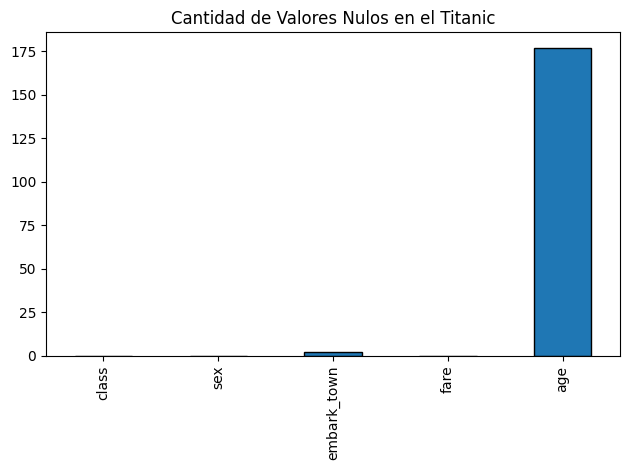
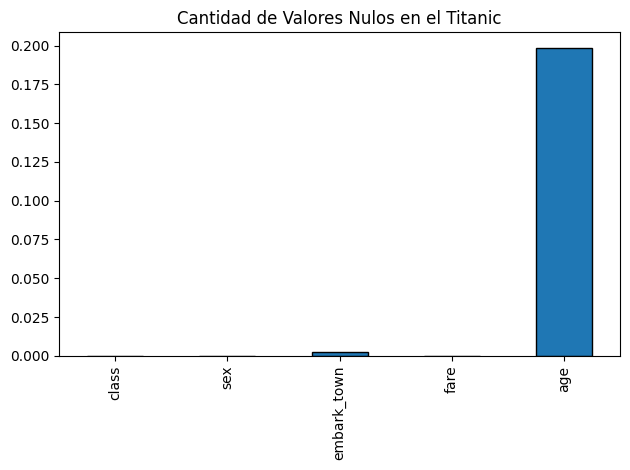
Built site for gh-pages

diff --git a/tics411/notebooks/11-ex-knn.html b/tics411/notebooks/11-ex-knn.html
@@ -204,7 +204,7 @@ pre > code.sourceCode > span > a:first-child::before { text-decoration: underlin
 <section id="valores-faltantes-nulos" class="level4">
 <h4 class="anchored" data-anchor-id="valores-faltantes-nulos">Valores Faltantes (Nulos)</h4>
 <div id="cell-8" class="cell">
-<div class="sourceCode cell-code" id="cb5"><pre class="sourceCode python code-with-copy"><code class="sourceCode python"><span id="cb5-1"><a href="#cb5-1" aria-hidden="true" tabindex="-1"></a>X.isnull().<span class="bu">sum</span>().plot(</span>
+<div class="sourceCode cell-code" id="cb5"><pre class="sourceCode python code-with-copy"><code class="sourceCode python"><span id="cb5-1"><a href="#cb5-1" aria-hidden="true" tabindex="-1"></a>X.isnull().mean().plot(</span>
 <span id="cb5-2"><a href="#cb5-2" aria-hidden="true" tabindex="-1"></a>    kind<span class="op">=</span><span class="st">"bar"</span>,</span>
 <span id="cb5-3"><a href="#cb5-3" aria-hidden="true" tabindex="-1"></a>    edgecolor<span class="op">=</span><span class="st">"k"</span>,</span>
 <span id="cb5-4"><a href="#cb5-4" aria-hidden="true" tabindex="-1"></a>    title<span class="op">=</span><span class="st">"Cantidad de Valores Nulos en el Titanic"</span>,</span>

diff --git a/tics411/clase-3.html b/tics411/clase-3.html
@@ -1502,7 +1502,7 @@ Es una heurísitca en la cual gráfica el valor de una métrica de distancia (e.
       }
     });
     </script>
-    <script>var lightboxQuarto = GLightbox({"selector":".lightbox","descPosition":"bottom","closeEffect":"zoom","loop":false,"openEffect":"zoom"});
+    <script>var lightboxQuarto = GLightbox({"selector":".lightbox","loop":false,"closeEffect":"zoom","descPosition":"bottom","openEffect":"zoom"});
     window.onload = () => {
       lightboxQuarto.on('slide_before_load', (data) => {
         const { slideIndex, slideNode, slideConfig, player, trigger } = data;

diff --git a/tics411/clase-4.html b/tics411/clase-4.html
@@ -1605,7 +1605,7 @@ Se define como la proporción de variables que tienen distinto valor con respect
       }
     });
     </script>
-    <script>var lightboxQuarto = GLightbox({"descPosition":"bottom","closeEffect":"zoom","loop":false,"openEffect":"zoom","selector":".lightbox"});
+    <script>var lightboxQuarto = GLightbox({"descPosition":"bottom","closeEffect":"zoom","selector":".lightbox","loop":false,"openEffect":"zoom"});
     window.onload = () => {
       lightboxQuarto.on('slide_before_load', (data) => {
         const { slideIndex, slideNode, slideConfig, player, trigger } = data;

diff --git a/tics411/clase-7.html b/tics411/clase-7.html
@@ -1332,7 +1332,7 @@ Mide qué tan lejos de la independencia están <span class="math inline">\(X\)</
       }
     });
     </script>
-    <script>var lightboxQuarto = GLightbox({"selector":".lightbox","openEffect":"zoom","loop":false,"closeEffect":"zoom","descPosition":"bottom"});
+    <script>var lightboxQuarto = GLightbox({"loop":false,"openEffect":"zoom","descPosition":"bottom","selector":".lightbox","closeEffect":"zoom"});
     window.onload = () => {
       lightboxQuarto.on('slide_before_load', (data) => {
         const { slideIndex, slideNode, slideConfig, player, trigger } = data;

diff --git a/tics411/clase-9.html b/tics411/clase-9.html
@@ -1295,7 +1295,7 @@ Se refiere al proceso donde el modelo por alguna razón conoce información que 
       }
     });
     </script>
-    <script>var lightboxQuarto = GLightbox({"loop":false,"openEffect":"zoom","closeEffect":"zoom","descPosition":"bottom","selector":".lightbox"});
+    <script>var lightboxQuarto = GLightbox({"closeEffect":"zoom","loop":false,"descPosition":"bottom","openEffect":"zoom","selector":".lightbox"});
     window.onload = () => {
       lightboxQuarto.on('slide_before_load', (data) => {
         const { slideIndex, slideNode, slideConfig, player, trigger } = data;

diff --git a/tics411/clase-0.html b/tics411/clase-0.html
@@ -1929,7 +1929,7 @@ Alfonso Tobar-Arancibia
     });
     </script>
     <script>videojs(video_shortcode_videojs_video1);</script>
-    <script>var lightboxQuarto = GLightbox({"descPosition":"bottom","closeEffect":"zoom","selector":".lightbox","openEffect":"zoom","loop":false});
+    <script>var lightboxQuarto = GLightbox({"selector":".lightbox","closeEffect":"zoom","loop":false,"openEffect":"zoom","descPosition":"bottom"});
     window.onload = () => {
       lightboxQuarto.on('slide_before_load', (data) => {
         const { slideIndex, slideNode, slideConfig, player, trigger } = data;

diff --git a/tics411/clase-2.html b/tics411/clase-2.html
@@ -1223,7 +1223,7 @@ Es un tipo de gráfico que muestra la distribución de manera univariada.
       }
     });
     </script>
-    <script>var lightboxQuarto = GLightbox({"selector":".lightbox","closeEffect":"zoom","descPosition":"bottom","openEffect":"zoom","loop":false});
+    <script>var lightboxQuarto = GLightbox({"loop":false,"closeEffect":"zoom","selector":".lightbox","openEffect":"zoom","descPosition":"bottom"});
     window.onload = () => {
       lightboxQuarto.on('slide_before_load', (data) => {
         const { slideIndex, slideNode, slideConfig, player, trigger } = data;

diff --git a/tics411/clase-8.html b/tics411/clase-8.html
@@ -1225,7 +1225,7 @@ Corresponde al periodo donde el modelo debe emitir una predicción.
       }
     });
     </script>
-    <script>var lightboxQuarto = GLightbox({"descPosition":"bottom","selector":".lightbox","loop":false,"closeEffect":"zoom","openEffect":"zoom"});
+    <script>var lightboxQuarto = GLightbox({"descPosition":"bottom","selector":".lightbox","closeEffect":"zoom","loop":false,"openEffect":"zoom"});
     window.onload = () => {
       lightboxQuarto.on('slide_before_load', (data) => {
         const { slideIndex, slideNode, slideConfig, player, trigger } = data;

diff --git a/tics411/clase-1.html b/tics411/clase-1.html
@@ -2049,7 +2049,7 @@ cov(q,p) &amp; cov(q,q)
       }
     });
     </script>
-    <script>var lightboxQuarto = GLightbox({"selector":".lightbox","closeEffect":"zoom","descPosition":"bottom","loop":false,"openEffect":"zoom"});
+    <script>var lightboxQuarto = GLightbox({"loop":false,"openEffect":"zoom","closeEffect":"zoom","selector":".lightbox","descPosition":"bottom"});
     window.onload = () => {
       lightboxQuarto.on('slide_before_load', (data) => {
         const { slideIndex, slideNode, slideConfig, player, trigger } = data;

diff --git a/tics411/clase-5.html b/tics411/clase-5.html
@@ -1317,7 +1317,7 @@ Alfonso Tobar-Arancibia
       }
     });
     </script>
-    <script>var lightboxQuarto = GLightbox({"openEffect":"zoom","selector":".lightbox","closeEffect":"zoom","loop":false,"descPosition":"bottom"});
+    <script>var lightboxQuarto = GLightbox({"selector":".lightbox","loop":false,"openEffect":"zoom","descPosition":"bottom","closeEffect":"zoom"});
     window.onload = () => {
       lightboxQuarto.on('slide_before_load', (data) => {
         const { slideIndex, slideNode, slideConfig, player, trigger } = data;

diff --git a/tics411/clase-6.html b/tics411/clase-6.html
@@ -1174,7 +1174,7 @@ Alfonso Tobar-Arancibia
       }
     });
     </script>
-    <script>var lightboxQuarto = GLightbox({"loop":false,"descPosition":"bottom","openEffect":"zoom","closeEffect":"zoom","selector":".lightbox"});
+    <script>var lightboxQuarto = GLightbox({"selector":".lightbox","openEffect":"zoom","descPosition":"bottom","loop":false,"closeEffect":"zoom"});
     window.onload = () => {
       lightboxQuarto.on('slide_before_load', (data) => {
         const { slideIndex, slideNode, slideConfig, player, trigger } = data;

diff --git a/tics411/lab-0.html b/tics411/lab-0.html
@@ -1193,7 +1193,7 @@ Alfonso Tobar-Arancibia
       }
     });
     </script>
-    <script>var lightboxQuarto = GLightbox({"loop":false,"openEffect":"zoom","selector":".lightbox","descPosition":"bottom","closeEffect":"zoom"});
+    <script>var lightboxQuarto = GLightbox({"openEffect":"zoom","selector":".lightbox","loop":false,"descPosition":"bottom","closeEffect":"zoom"});
     window.onload = () => {
       lightboxQuarto.on('slide_before_load', (data) => {
         const { slideIndex, slideNode, slideConfig, player, trigger } = data;
